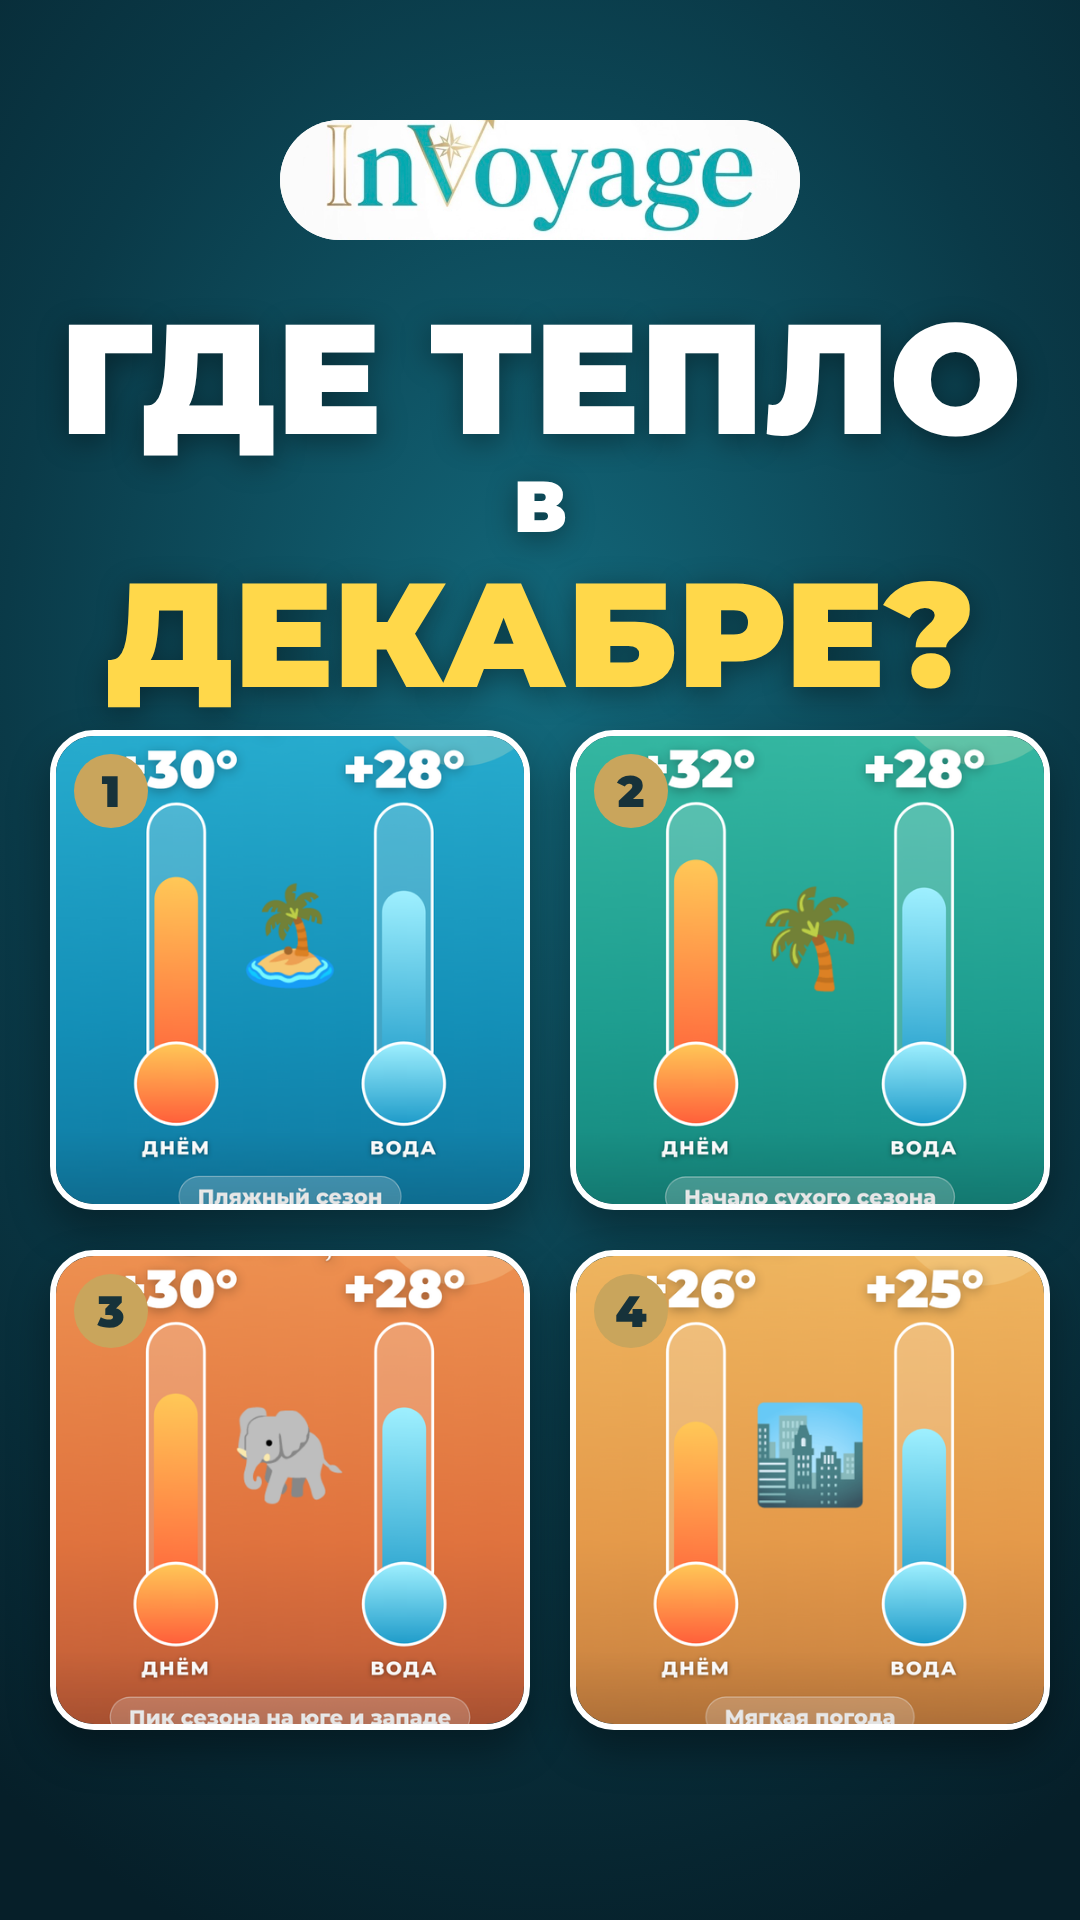
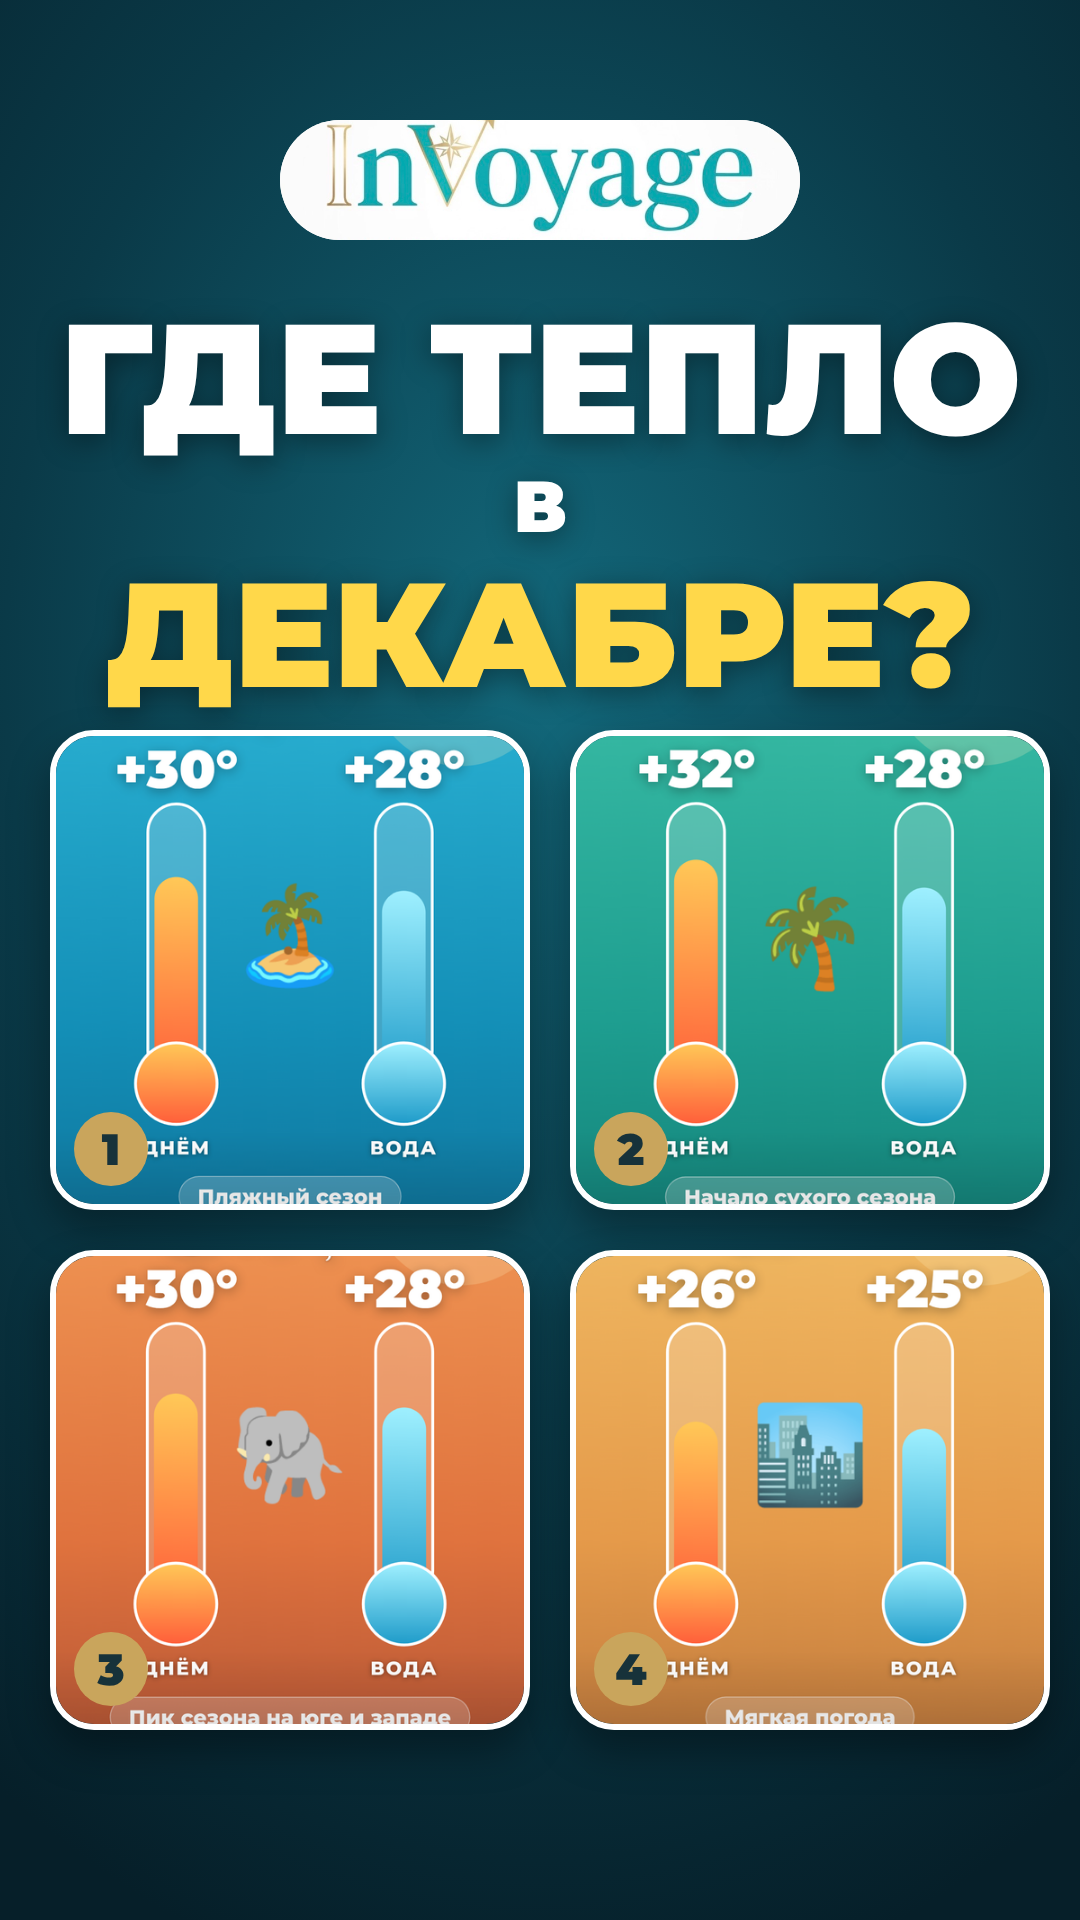
Cover: move number badges to bottom-left
Claude-Session: https://claude.ai/code/session_01MfS1QBJzWMUPe5nNUUUdV5

diff --git a/make_cover.js b/make_cover.js
@@ -16,7 +16,7 @@ body{background:radial-gradient(ellipse 90% 70% at 50% 35%,#13697C 0%,#0A3A48 55
 .g{position:absolute;left:50px;top:730px;display:grid;grid-template-columns:480px 480px;gap:40px}
 .c{position:relative;width:480px;height:480px;border-radius:44px;overflow:hidden;border:6px solid #fff;box-shadow:0 20px 40px rgba(0,0,0,.35)}
 .c img{width:100%;height:100%;object-fit:cover;display:block}
-.n{position:absolute;left:18px;top:18px;width:74px;height:74px;border-radius:37px;background:#C9A55C;color:#17323a;font-weight:900;font-size:44px;line-height:74px;text-align:center}
+.n{position:absolute;left:18px;bottom:18px;width:74px;height:74px;border-radius:37px;background:#C9A55C;color:#17323a;font-weight:900;font-size:44px;line-height:74px;text-align:center}
 .lg{position:absolute;left:50%;top:120px;width:520px;height:120px;margin-left:-260px;border-radius:60px;background:#fff;overflow:hidden}
 .lg img{position:absolute;left:-70px;top:-250px;width:660px}
 </style>
